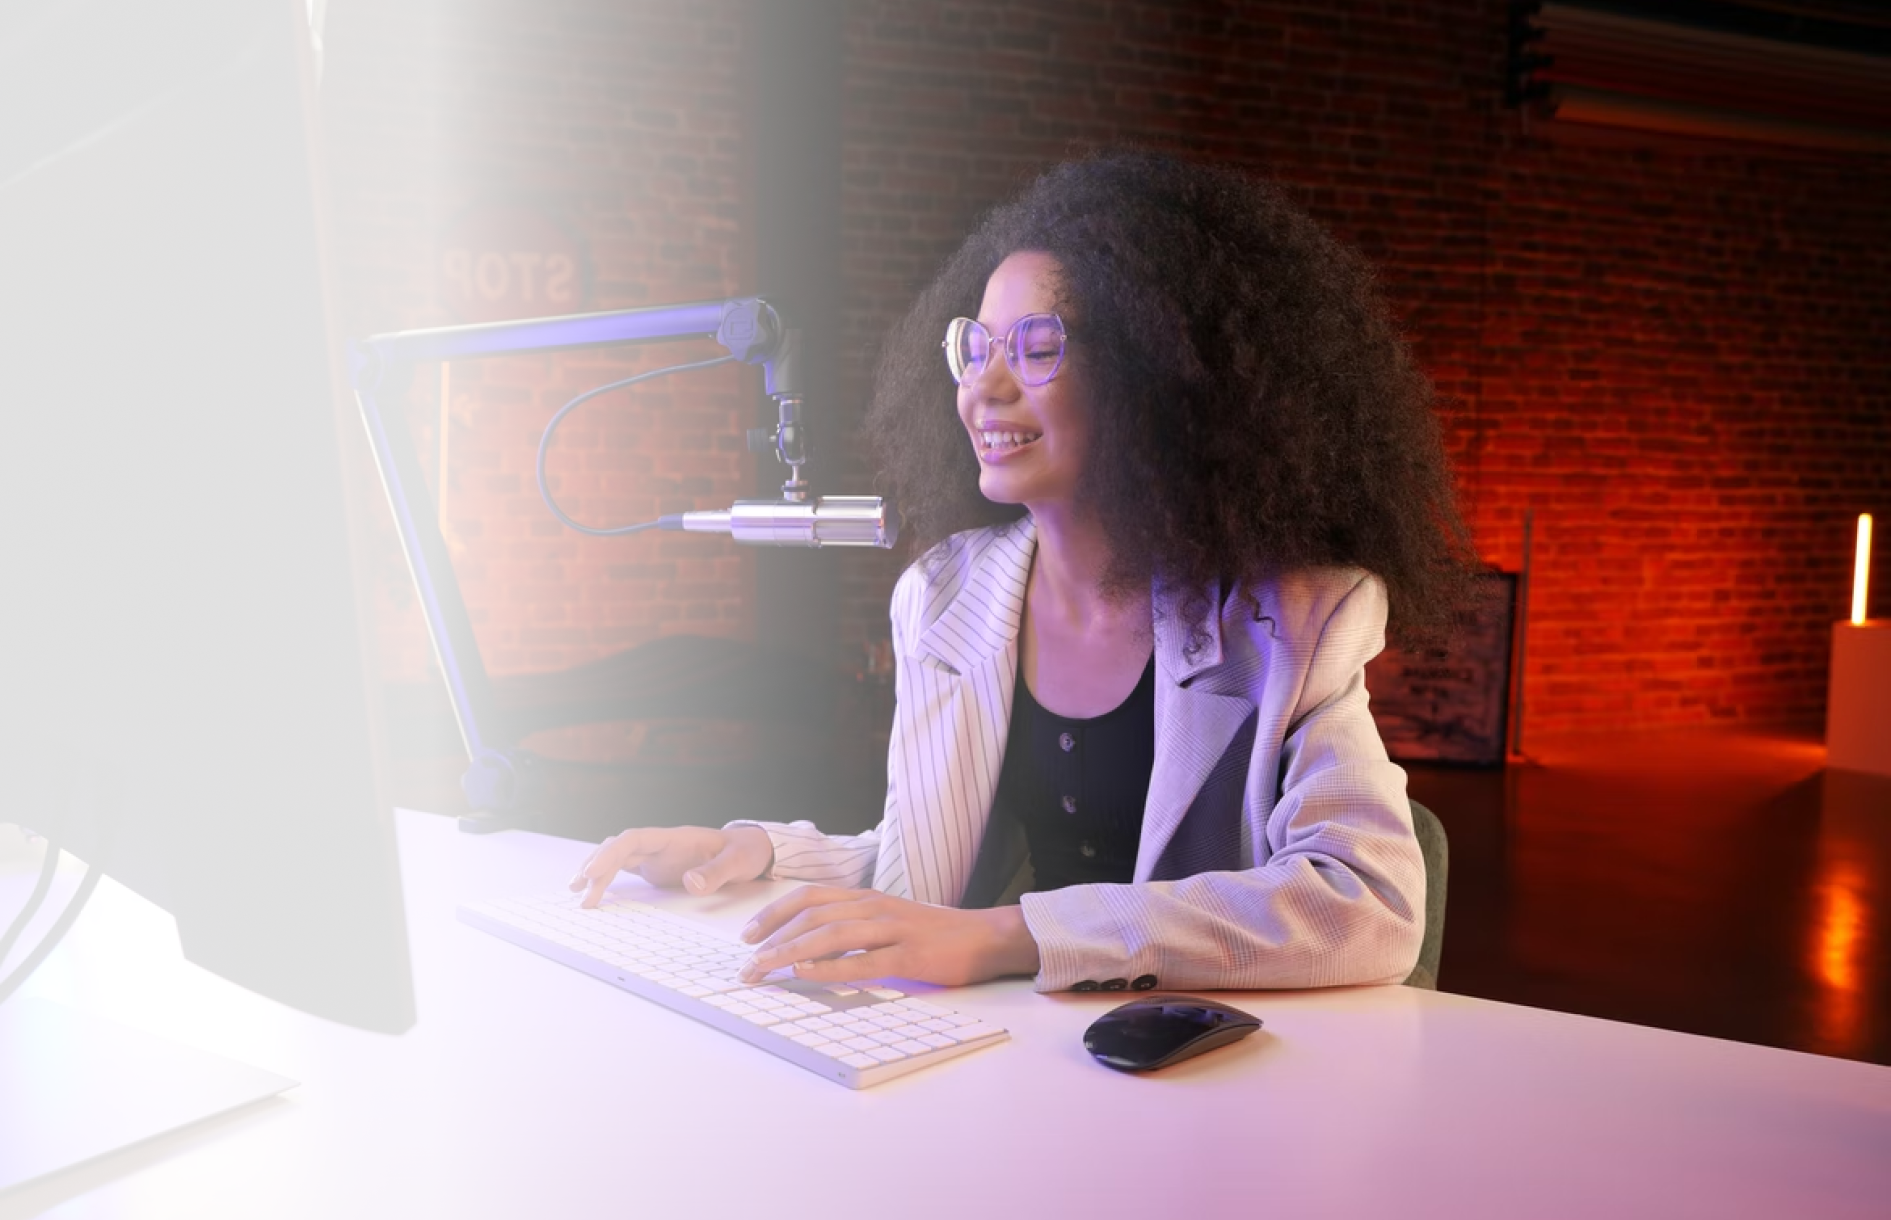
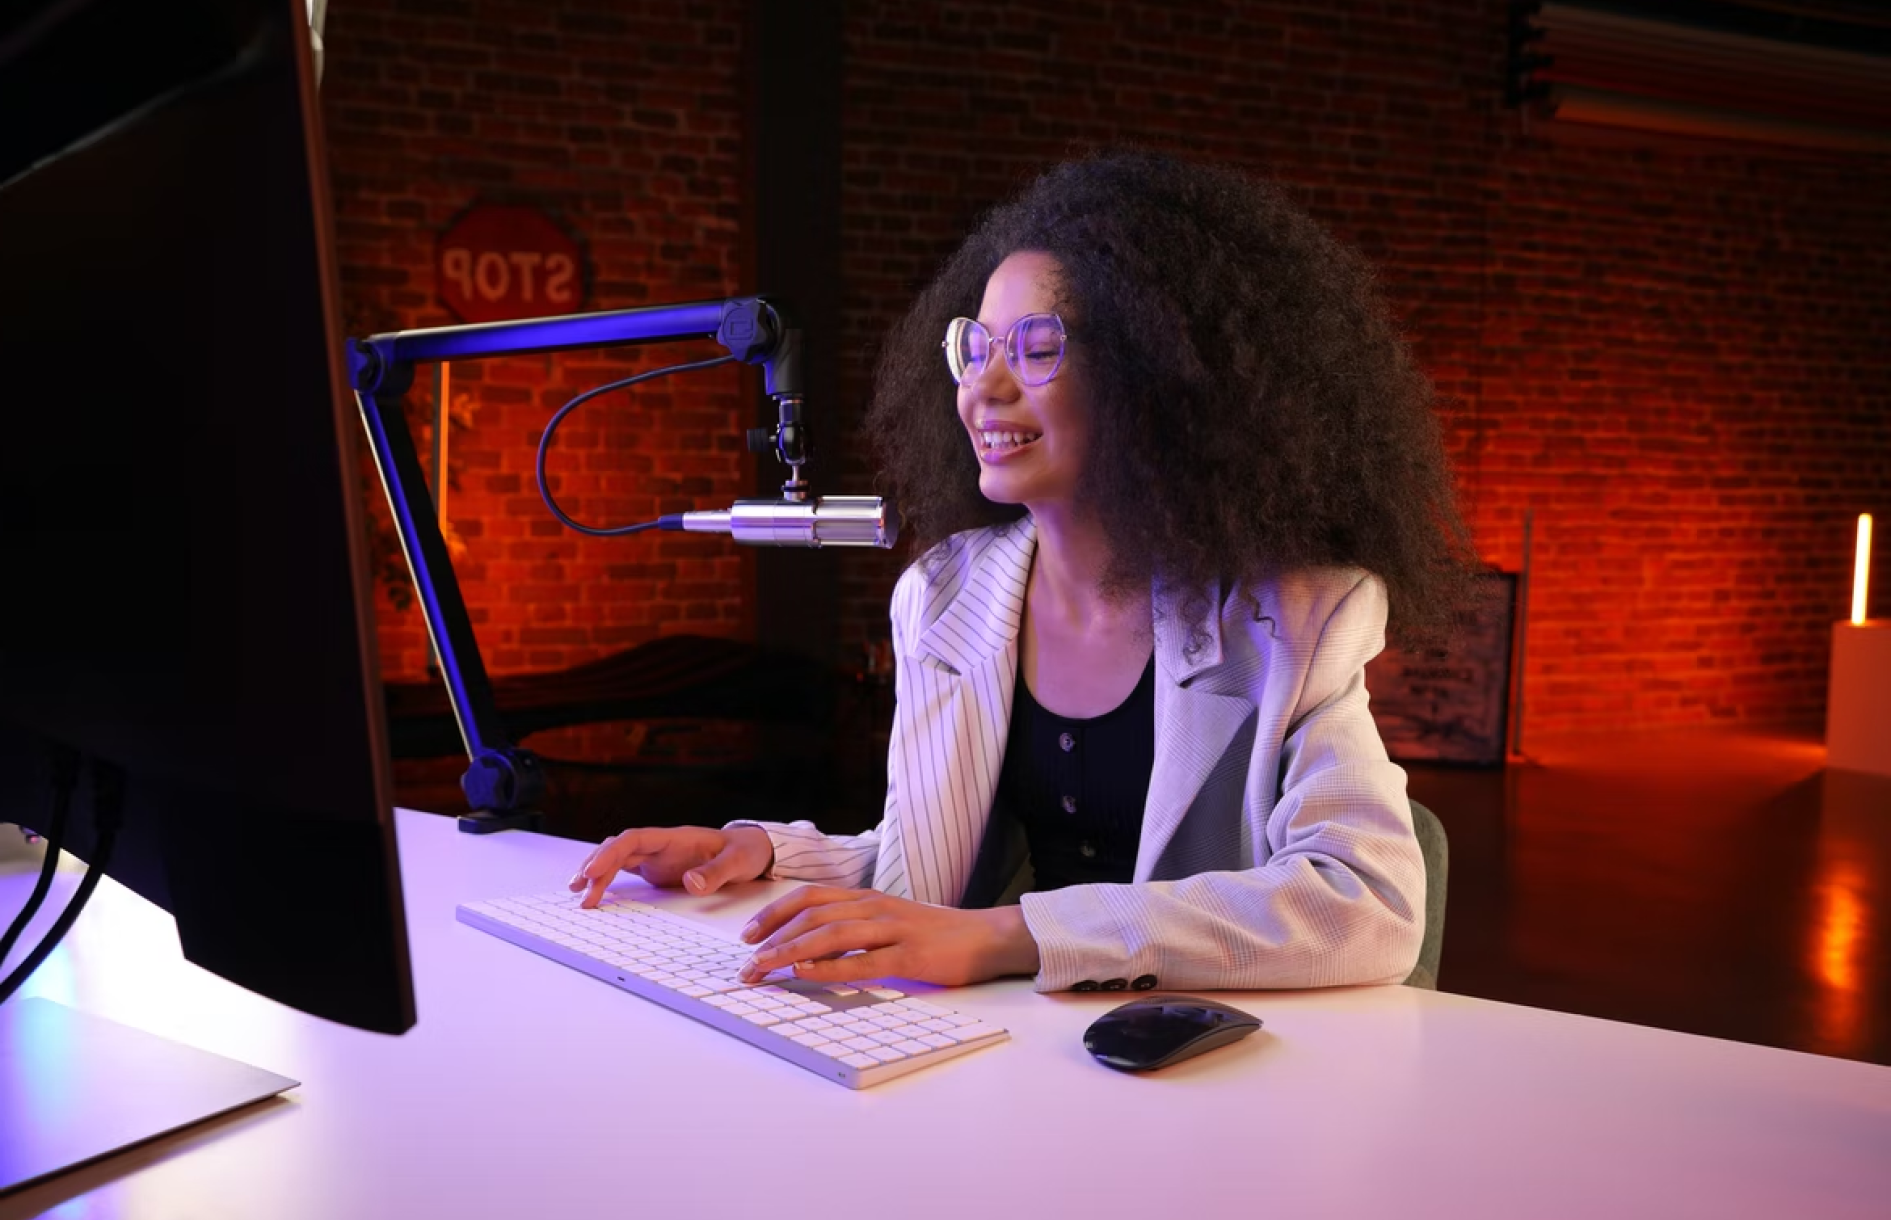
Header media queries

diff --git a/css/header.css b/css/header.css
@@ -1,11 +1,16 @@
 .header {
   height: 100vh;
   padding-top: 48px;
-  background: url(/images/header.png);
+  padding-left: 10%;
+  background: linear-gradient(
+      90deg,
+      rgba(255, 255, 255, 0.88) 22.85%,
+      rgba(255, 255, 255, 0) 63.88%
+    ),
+    url(/images/header.png);
   background-repeat: no-repeat;
   background-size: cover;
   background-position: center;
-  /* transform: matrix(-1, 0, 0, 1, 0, 0); */
   position: relative;
 }
 
@@ -21,7 +26,7 @@
 
 .header-container {
   width: 506px;
-  margin-left: 200px;
+  /* margin-left: 200px; */
 }
 
 .header-tertiary {
@@ -227,6 +232,23 @@
 /* MEDIA QUERIES */
 
 @media (max-width: 950px) {
+  .header {
+    padding-left: 3%;
+  }
+
+  .header-font-lg {
+    font-size: 58px !important;
+  }
+
+  .header-tertiary {
+    font-size: 26px;
+    line-height: 24px;
+    margin-top: 0;
+    margin-bottom: 40px;
+  }
+
+  /* COUPON MODAL */
+
   .header-modal {
     padding: 32px 40px;
   }
@@ -267,6 +289,57 @@
 }
 
 @media (max-width: 620px) {
+  .header {
+    height: 100vh;
+    padding: 0;
+    padding-top: 24px;
+    background: linear-gradient(
+        180deg,
+        rgba(255, 255, 255, 0) 6.88%,
+        rgba(255, 255, 255, 0.72) 51.25%
+      ),
+      url(/images/header.png);
+    background-repeat: no-repeat;
+    background-size: cover;
+    background-position: center;
+    /* transform: matrix(-1, 0, 0, 1, 0, 0); */
+    position: relative;
+  }
+
+  .title {
+    font-size: 20px;
+    line-height: 24px;
+    margin-bottom: 250px;
+    color: #f9f9f9;
+  }
+
+  .header-container {
+    max-width: 300px;
+    text-align: center;
+    margin: 0 auto;
+  }
+
+  .header-font-lg {
+    font-size: 44px !important;
+    line-height: 56px;
+    text-align: center !important;
+  }
+
+  .header-tertiary {
+    font-size: 20px;
+    line-height: 24px;
+    margin-top: 0;
+    margin-bottom: 40px;
+  }
+
+  .header-btn {
+    font-size: 16px;
+    line-height: 20px;
+    padding: 12px 24px;
+  }
+
+  /* COUPON MODAL */
+
   .header-modal {
     max-width: 320px;
     height: auto;

diff --git a/css/active-streamers-widget.css b/css/active-streamers-widget.css
@@ -11,13 +11,14 @@
   box-shadow: 0px 2px 8px rgba(0, 0, 0, 0.24);
   border-radius: 104px;
   position: fixed;
-  bottom: 96px;
+  bottom: 40px;
   right: 96px;
+  cursor: pointer;
 }
 
 .widget-container {
-  width: 1040px;
-  height: 880px;
+  /* width: 1040px;
+  height: 880px; */
   padding: 56px;
   position: fixed;
   top: 50%;
@@ -38,6 +39,7 @@
 }
 
 .widget {
+  width: 900px;
   height: 700px;
   padding: 24px 8px;
   background: linear-gradient(
@@ -80,4 +82,41 @@
   /* border: 2px solid #99a8b4; */
   border-radius: 50%;
   margin-bottom: 16px;
+}
+
+@media (max-width: 1050px) {
+  .widget-container {
+    width: 95%;
+  }
+
+  .widget {
+    width: 100%;
+    height: 700px;
+    padding: 24px 8px;
+    background: linear-gradient(
+        0deg,
+        rgba(5, 21, 53, 0.24),
+        rgba(5, 21, 53, 0.24)
+      ),
+      #072d49;
+    border-radius: 8px;
+    display: grid;
+    grid-template-columns: repeat(auto-fit, minmax(200px, 1fr));
+    gap: 48px;
+    overflow-y: scroll;
+  }
+}
+
+@media (max-width: 620px) {
+  .widget {
+    display: grid;
+    grid-template-columns: 1fr;
+    gap: 48px;
+    overflow-y: scroll;
+  }
+
+  .active-user-img {
+    width: 48px;
+    height: 48px;
+  }
 }

diff --git a/css/comments.css b/css/comments.css
@@ -9,7 +9,7 @@
   max-width: 825px;
   display: flex;
   flex-direction: column;
-  padding: 0 32px;
+  gap: 32px;
 }
 
 .single-comment {
@@ -27,11 +27,6 @@
   border-radius: 50%;
   justify-self: center;
 }
-
-/* .name-date-container {
-  display: flex;
-  align-items: center;
-} */
 
 .comment-name {
   font-weight: 600;
@@ -92,22 +87,7 @@
   display: none;
 }
 
-/* @media (max-width: 600px) {
-  .single-comment {
-    display: grid;
-    grid-template-columns: 1fr 1fr 1fr;
-    gap: 0px;
-    padding: 40px 32px 32px;
-    border-bottom: 4px solid #10b0e7;
-  }
-
-  .comment-content {
-    grid-row: 2;
-    grid-column: 1 / -1;
-  }
-} */
-
-/* Media queries for comment section will be a bit difficult with all the flexboxes. Try to redo the html in js file and start over :D */
+/* MEDIA QUERIES */
 
 @media (max-width: 675px) {
   .comments {
@@ -116,11 +96,12 @@
 
   .comments-box {
     gap: 32px;
+    padding: 0;
   }
 
   .single-comment {
     display: grid;
-    grid-template-columns: 60px 3fr 100px;
+    grid-template-columns: 40px 3fr 90px;
     gap: 8px;
     padding: 40px 8px 24px;
   }

diff --git a/script.js b/script.js
@@ -609,7 +609,6 @@ widgetButton.addEventListener("click", function () {
           <p class='user-name'>${activeUsers[i].name}</p>
           <p class='user-email'>(${activeUsers[i].email})</p>
           <p class='user-status'>${activeUsers[i].statusMessage}</p>
-          <p class='user-status'>${activeUsers[i].activity}</p>
           </div>
           </div>
           `;

diff --git a/css/streamers.css b/css/streamers.css
@@ -185,6 +185,11 @@
     height: 12px;
   }
 
+  .user-info {
+    flex-grow: 1;
+    /* justify-self: stretch; */
+  }
+
   .user-name {
     font-size: 16px;
     line-height: 20px;
